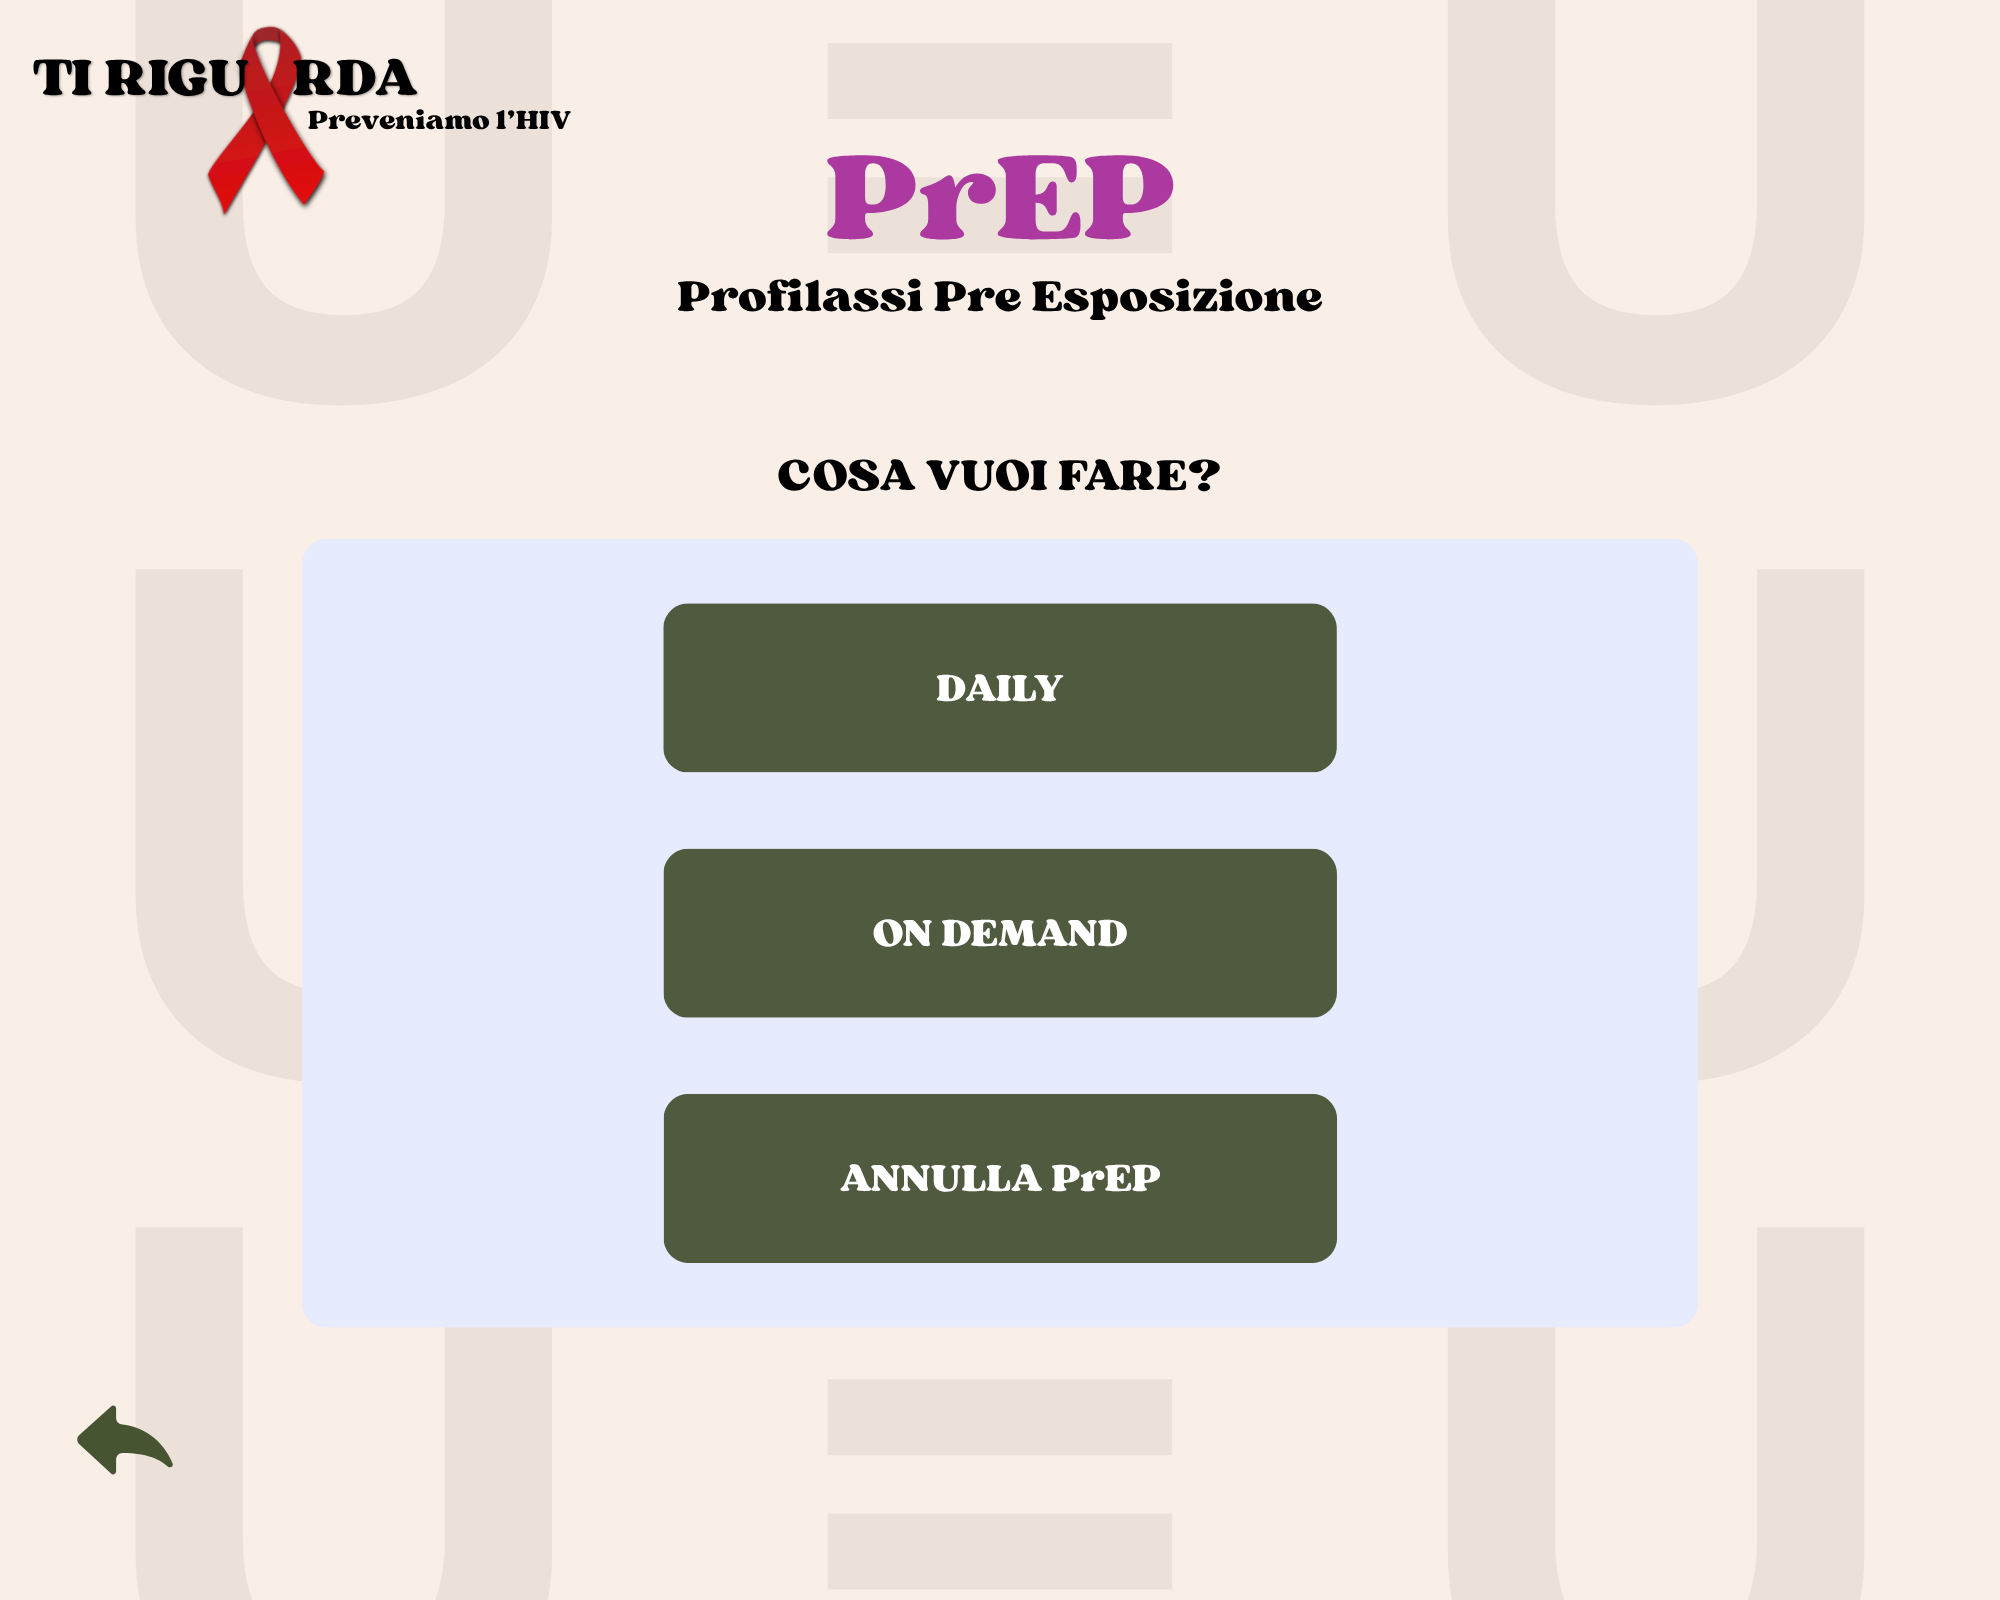
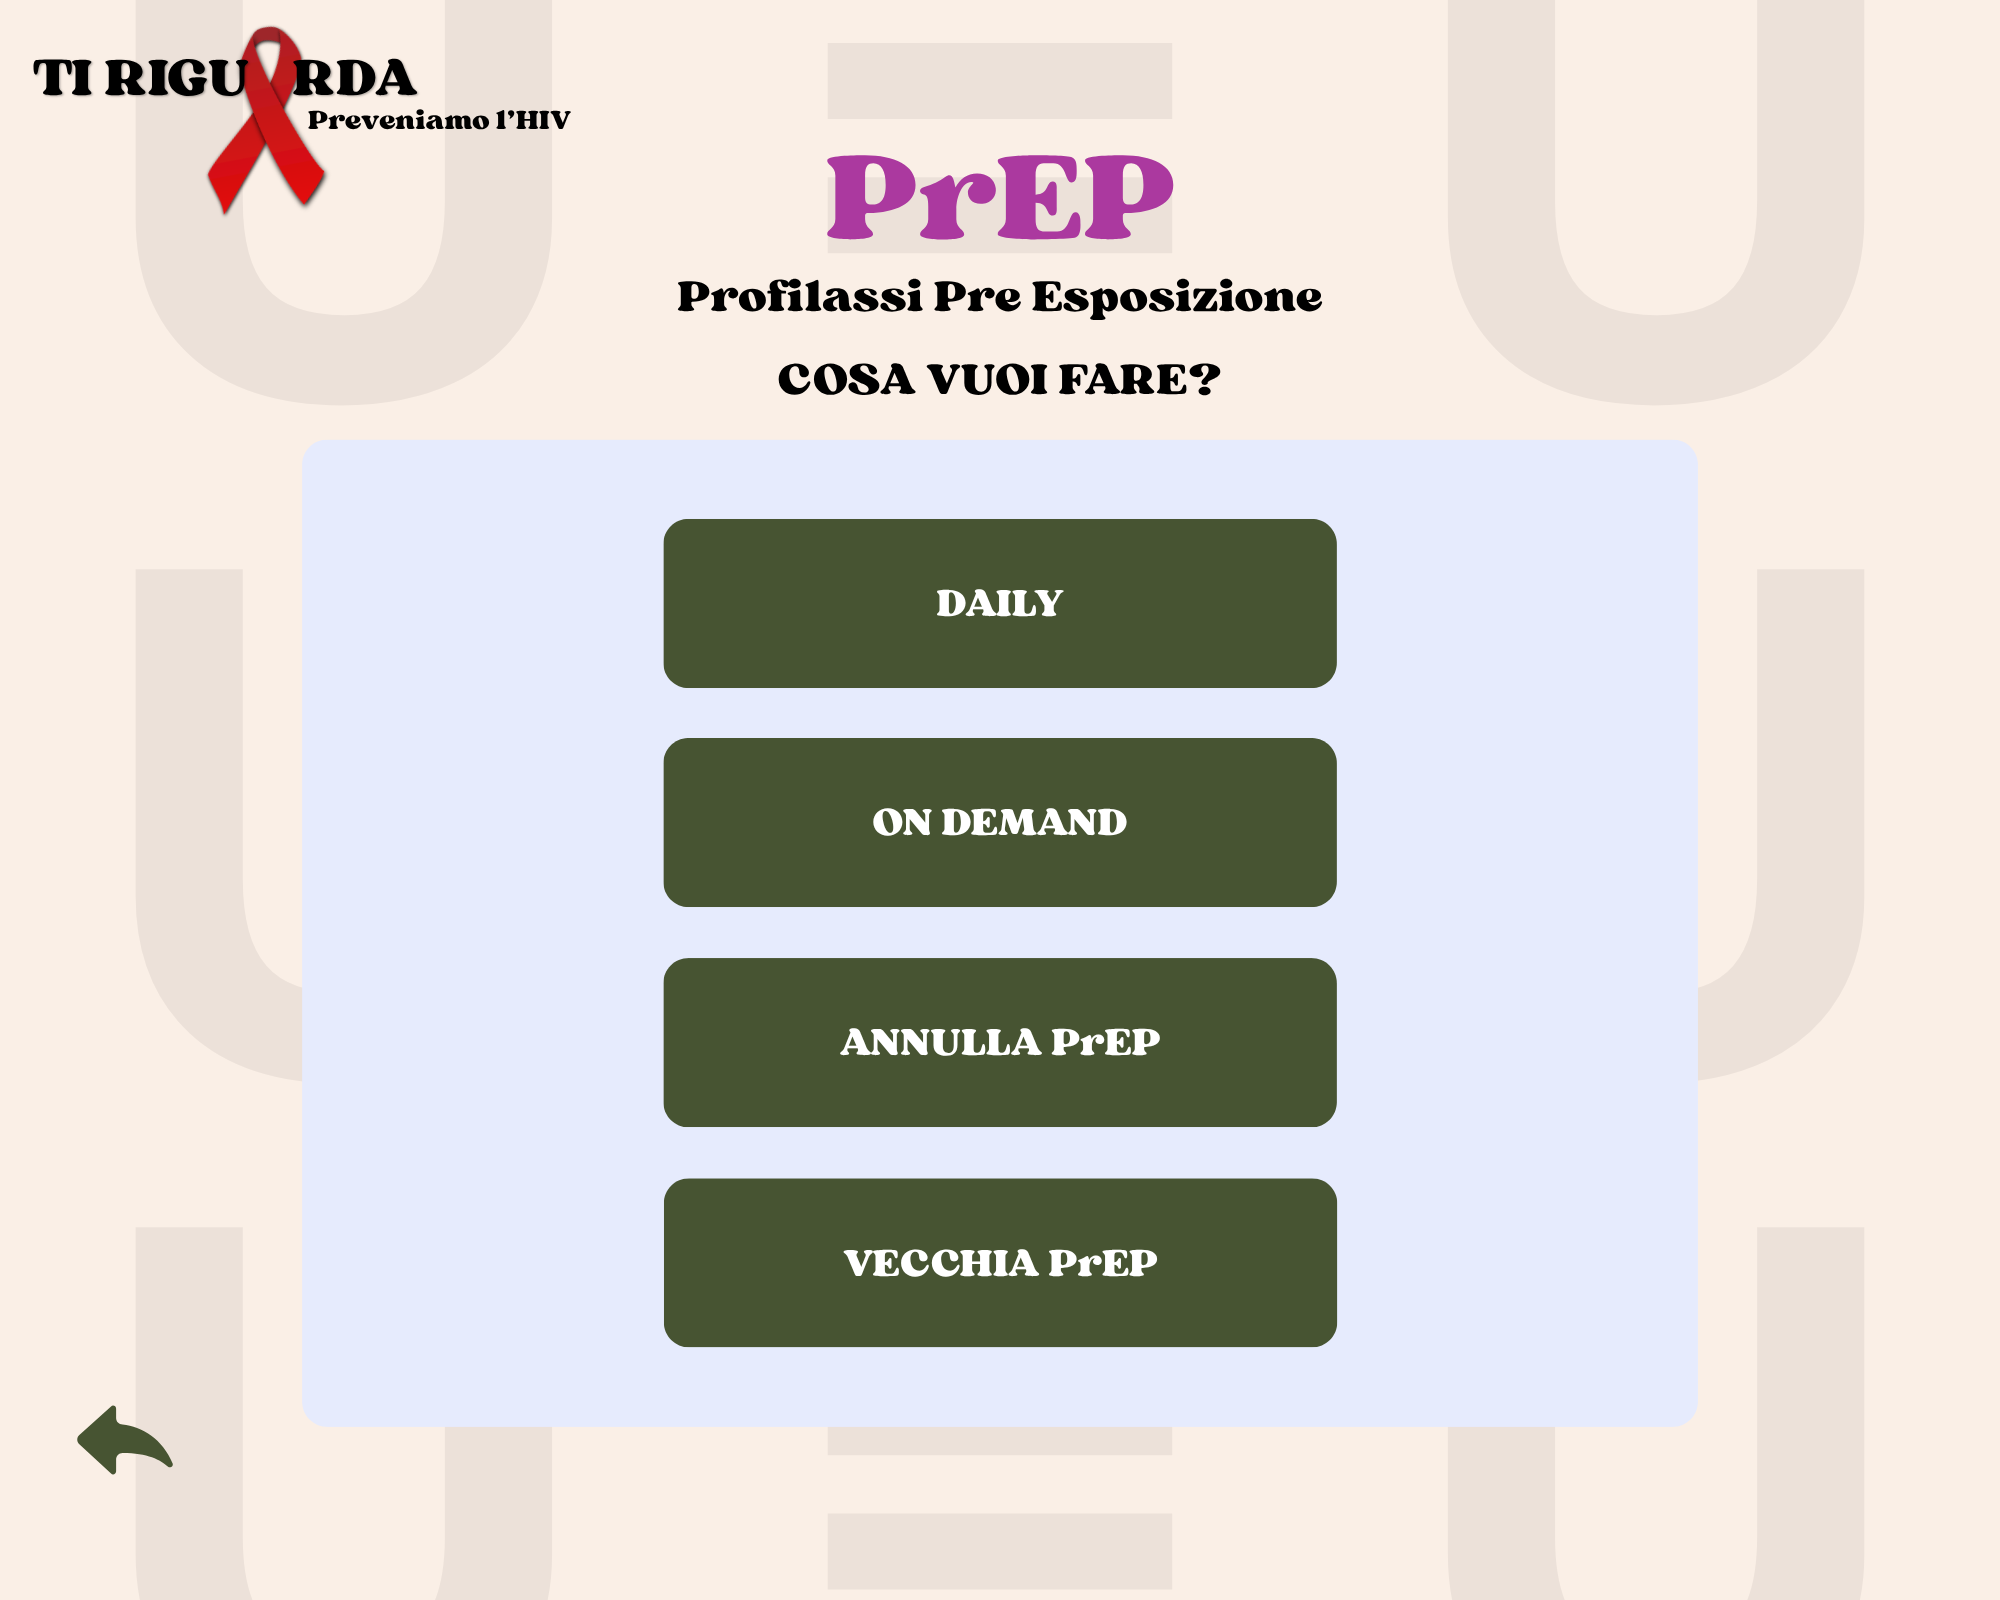
PrEP

diff --git a/src/main/java/it/tiriguarda/controller/cli/RegistraRapportoCLIController.java b/src/main/java/it/tiriguarda/controller/cli/RegistraRapportoCLIController.java
@@ -54,13 +54,13 @@ public class RegistraRapportoCLIController {
 			        RichiestaSMSRapportoCLIController smsController = new RichiestaSMSRapportoCLIController();
 			        smsController.avvia(beanAggiornato, scanner); 
 			    } else {
-			    	System.out.println(String.format("\nATTENZIONE: il tuo rapporto ha un %s rischio. Il periodo finestra è già terminato: quindi ti consigliamo di fare un test prima possibile!", beanAggiornato.getRischio().toString()));
+			    	System.out.println(String.format("%nATTENZIONE: il tuo rapporto ha un %s rischio. Il periodo finestra è già terminato: quindi ti consigliamo di fare un test prima possibile!", beanAggiornato.getRischio().toString()));
 			        System.out.print("Vuoi procedere con la registrazione? (si per confermare, q per annullare): ");
 			        
 			        String rispostaInfo = scanner.nextLine().trim().toLowerCase();
 			        
 			        if (rispostaInfo.equals("q")) {
-			            System.out.println("\n[INFO] Registrazione rapporto annullata! Torno al menu principale...");
+			            System.out.println("\n[INFO] Registrazione rapporto annullata!");
 			            return false; 
 			        } else {
 			            appController.salvaRapportoDefinitivo(beanAggiornato);

diff --git a/src/main/java/it/tiriguarda/dto/OldProcotolloPrEP.java b/src/main/java/it/tiriguarda/dto/OldProcotolloPrEP.java
@@ -1,0 +1,47 @@
+package it.tiriguarda.dto;
+
+import java.time.LocalDate;
+
+import it.tiriguarda.domain.TipologiaPrEP;
+import it.tiriguarda.exception.DatiIncompletiException;
+
+public class OldProcotolloPrEP {
+	private TipologiaPrEP tipoPrEP;
+	private LocalDate dataInizio;
+	private LocalDate dataFine;
+	
+	public TipologiaPrEP getTipoPrEP() {
+		return tipoPrEP;
+	}
+	public void setTipoPrEP(TipologiaPrEP tipoPrEP) {
+		this.tipoPrEP = tipoPrEP;
+	}
+	public LocalDate getDataInizio() {
+		return dataInizio;
+	}
+	public void setDataInizio(LocalDate dataInizio) {
+		controllaData(dataInizio);
+		this.dataInizio = dataInizio;
+	}
+	public LocalDate getDataFine() {
+		return dataFine;
+	}
+	public void setDataFine(LocalDate dataFine) {
+		controllaData(dataFine);
+		controllaCoerenza (this.dataInizio, dataFine);
+		this.dataFine = dataFine;
+	}
+	
+	private void controllaData(LocalDate data) {
+		if (data == null) {
+			throw new DatiIncompletiException("Devi inserire la data!");
+		}
+	}
+	
+	private void controllaCoerenza(LocalDate dataI, LocalDate dataF) {
+		if (dataI.isAfter(dataF)) {
+			throw new DatiIncompletiException("La data di fine dev'essere postuma alla data di inizio!");
+		}
+	}
+	
+}

diff --git a/src/main/java/it/tiriguarda/controller/cli/ConfiguraPrEPCLIController.java b/src/main/java/it/tiriguarda/controller/cli/ConfiguraPrEPCLIController.java
@@ -53,6 +53,7 @@ public class ConfiguraPrEPCLIController {
             	throw e;
             }
     }
+	return;
 }
 	@SuppressWarnings("java:S106")
     private LocalTime leggiOrario(Scanner scanner) {

diff --git a/src/main/java/it/tiriguarda/controller/graphic/AnnullaPrEPGraphicController.java b/src/main/java/it/tiriguarda/controller/graphic/AnnullaPrEPGraphicController.java
@@ -39,6 +39,6 @@ public class AnnullaPrEPGraphicController {
 	
 	@FXML
 	public void onBackButton(ActionEvent event){
-		ViewDispatcher.mostraPrEP();;
+		ViewDispatcher.mostraPrEP();
 	}
 }

diff --git a/src/main/java/it/tiriguarda/controller/graphic/OldPrEPGraphicController.java b/src/main/java/it/tiriguarda/controller/graphic/OldPrEPGraphicController.java
@@ -1,0 +1,6 @@
+package it.tiriguarda.controller.graphic;
+
+public class OldPrEPGraphicController {
+	@FXML Button confermaButton;
+	@FXML 
+}
